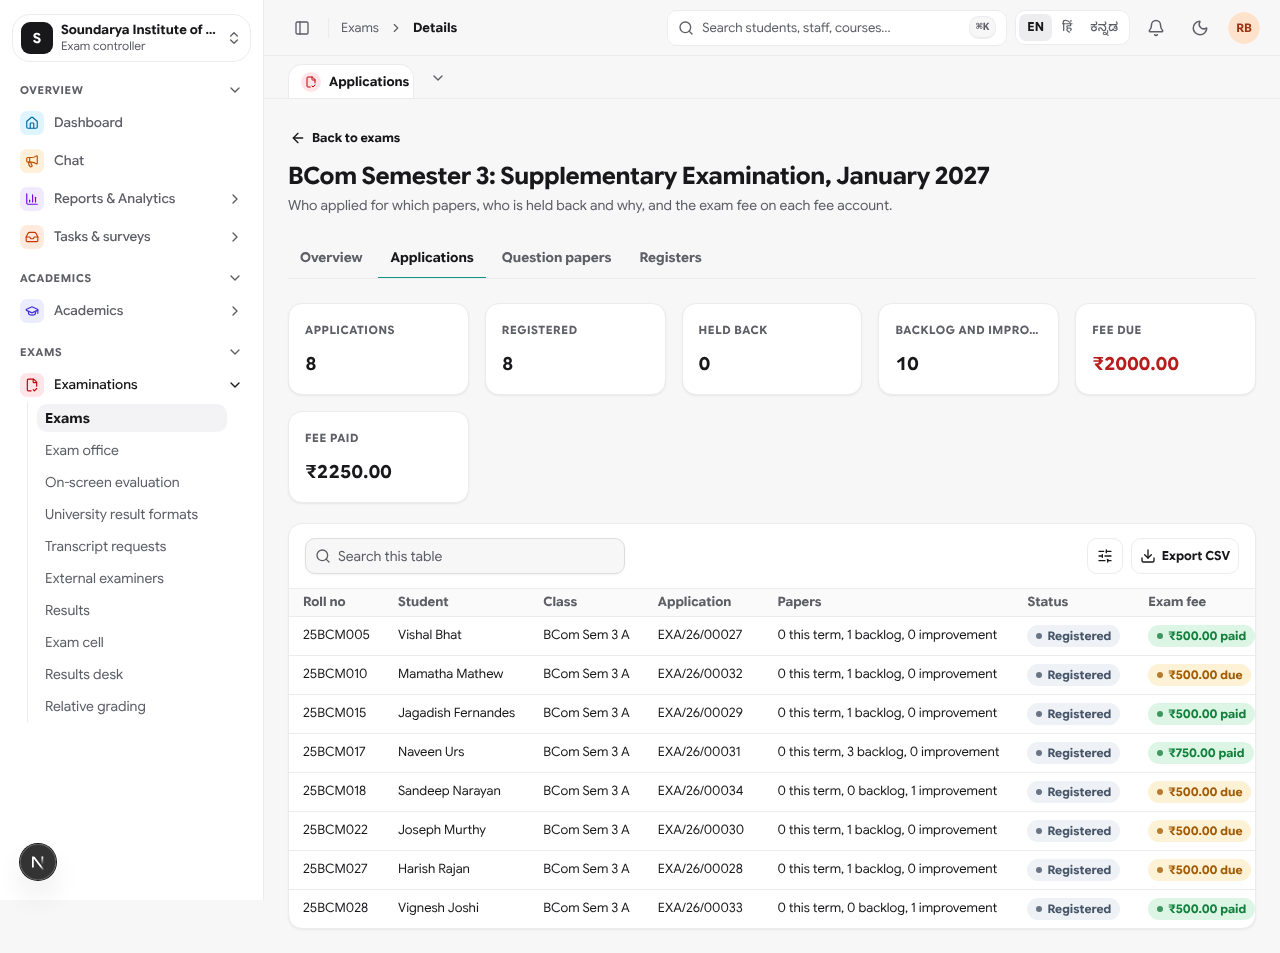
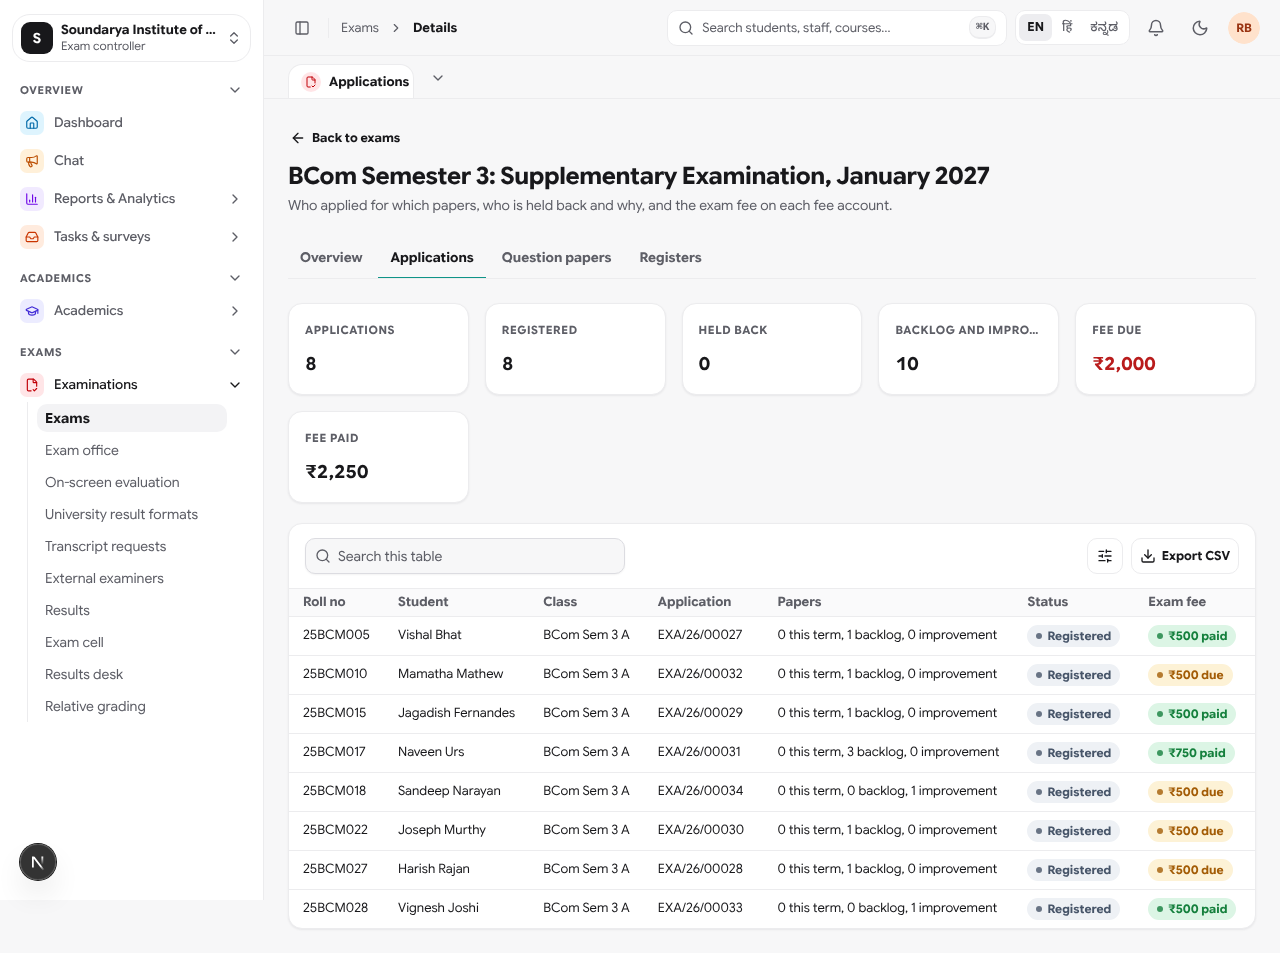
Exams completeness audit (sections 5 and 6), exam screenshots, stable order of appointments
Claude-Session: https://claude.ai/code/session_014Wa1UJYi7F88b2uAnwAZ9Y

Changed region(s): [[0.9375, 0.639, 1.0, 0.9738], [0.875, 0.3652, 0.9375, 0.3956], [0.25, 0.4869, 0.3125, 0.5173]]

diff --git a/apps/erp/src/components/exams/flagship/PaperSettingDesk.tsx b/apps/erp/src/components/exams/flagship/PaperSettingDesk.tsx
@@ -98,6 +98,12 @@ function SubjectCard({ sessionId, subject: s, staff, canManage }: { sessionId: s
           {t('xf.qp.drawInfo', { set: s.draw.setLabel ?? '-', n: s.draw.candidates, at: fmt.dateTime(s.draw.drawnAt) })}
         </p>
       )}
+      {s.appointments.length === 0 && s.sets.length === 0 ? (
+        <p className="m-0 text-sm text-muted-foreground" data-testid={`xf-qp-none-${s.code}`}>
+          {t('xf.qp.noAppointments')}
+        </p>
+      ) : (
+        <>
       <h4 className="m-0 mb-2 text-[13px] font-semibold uppercase tracking-wide text-muted-foreground">{t('xf.qp.people')}</h4>
       <Grid
         empty={t('xf.qp.noAppointments')}
@@ -127,6 +133,8 @@ function SubjectCard({ sessionId, subject: s, staff, canManage }: { sessionId: s
           { label: t('xf.qp.col.release'), cell: (x) => (x.release ? `${fmt.dateTime(x.release.releaseAt)} · ${x.release.status}` : x.status === 'locked' && !x.drawn && s.draw ? t('xf.qp.reserve') : '-') },
         ]}
       />
+        </>
+      )}
       {error && <Alert severity="error" role="alert">{error}</Alert>}
       {dlg === 'appoint' && (
         <FormDialog

diff --git a/apps/erp/src/components/exams/flagship/ApplicationsDesk.tsx b/apps/erp/src/components/exams/flagship/ApplicationsDesk.tsx
@@ -257,7 +257,8 @@ export function ApplicationDialog({ sessionId, studentId, canManage, onClose }: 
                       <CheckboxField label={`${s.code} ${s.name}`} checked={chosen.has(s.subjectId)} disabled={!editable || busy} onChange={(c) => setChosen((x) => { const n = new Set(x); if (c) n.add(s.subjectId); else n.delete(s.subjectId); return n; })} />
                     )}
                     <div className="text-[13px] text-muted-foreground">
-                      {t(`xf.kind.${s.kind}` as MessageKey)} · {t('xf.app.credits', { n: s.credits })}
+                      {t(`xf.kind.${s.kind}` as MessageKey)}
+                      {s.credits ? ` · ${t('xf.app.credits', { n: s.credits })}` : ''}
                       {s.examDate ? ` · ${fmt.date(s.examDate, 'short')} ${s.startsAt ?? ''}` : ''}
                     </div>
                     {s.reasons.length > 0 && <div className="text-[13px] text-red-ink">{s.reasons.join('; ')}</div>}

diff --git a/services/api/src/exam-cell/flagship.records.ts b/services/api/src/exam-cell/flagship.records.ts
@@ -45,6 +45,8 @@ export function qpAppointmentsEntity(): RecordEntity {
       },
       sorts: { due: qpAppointments.dueOn, subject: subjects.code, staff: users.fullName, status: qpAppointments.status, created: qpAppointments.createdAt },
       defaultSort: { id: 'due', dir: 'asc' },
+      // Within a day: by paper, the setter before the moderator.
+      tiebreak: [subjects.code, sql`(${qpAppointments.role} = 'moderator')`],
     },
     fields: {
       dueOn: { label: 'Due on', type: 'date', schema: DATE, create: false, apply: whileOpen('dueOn') },

diff --git a/docs/requirements/EXAMS_COMPLETENESS.md b/docs/requirements/EXAMS_COMPLETENESS.md
@@ -1,0 +1,116 @@
+# Examinations and results: completeness against Linways (checklist sections 5 and 6)
+
+Audit of `docs/research/MODULE_DEPTH_CHECKLIST.md` sections 5 and 6 and the examinations brief, exercised against the
+Soundarya seed (API calls and the ERP pages with Playwright at 1280px and 390px). **Before** is the state of the branch
+when this work started; **after** is the state now. Evidence names the code and the test that proves the item.
+
+Status words: **Have** (built and tested before this work), **Built** (missing or partial before, built now),
+**Deepened** (existed, gaps closed now), **Partial** (what is still missing is said).
+
+Test files referred to below are in `services/api/test/` unless stated. The new end-to-end file is
+`exam-flagship.e2e.spec.ts` (9 tests, fees and analyses worked by hand in its comments).
+
+## Section 5: examinations and evaluation
+
+### Internal (CIA)
+
+| Item | Before | After | Evidence |
+|---|---|---|---|
+| Assessment scheme per course with weights and best-of-N | Have | Have | `exams/schemes.controller.ts`, `grading.ts` (bestOf), `exams.e2e.spec.ts`; affiliation presets (`affiliation/registry`) |
+| Internal mark grid with lock and HOD approval | Partial: submit/verify/lock, reopen only by HOD on their own | Built: teacher asks to unlock with a reason; HOD of the subject's department or controller decides (never the asker); approval reopens; audited; teacher told | `exam-cell/marks-unlock.ts`, `flagship.records.ts` (kit list `marks-unlock-requests`), migration 0188; ERP `/exams/unlock-requests`; Teacher App marks entry menu and `paper_setting_screen.dart`; test "unlocks submitted marks only on the approval…" |
+| Normalisation of internal marks to the university maximum | Have | Have | scheme scaling and affiliation `assessment` rules; `exam-cell/internal-marks.ts` |
+| Attendance-linked internal marks (slabs) | Have | Have | `exam-cell/internal-marks.ts` attendance slabs; `exam-cell.e2e.spec.ts` |
+| Internal mark submission to the university (portal format) | Have | Have | `affiliation/result-sheet.ts`, `/exams/university` |
+| CO-wise questions in internal marks | Have (OBE) | Have | OBE question-wise marks (owned by the OBE module; not changed here) |
+
+### Exam setup and conduct
+
+| Item | Before | After | Evidence |
+|---|---|---|---|
+| Exam types: regular, supplementary, improvement, special, practical, viva | Have | Have | `exam-records.ts` KINDS |
+| Exam registration with eligibility (attendance, dues, prerequisites) and fee | Partial: whole-session eligibility, fee as a separate due marked paid by hand | Built: application per subject (this term, backlog, improvement), each subject checked (attendance after condonation, NE on internal marks, prerequisites), whole-application blockers (overdue fees, backlog limit), application number, the fee as an **invoice on the fee account** (paid at the counter, online or in the apps; settles the exam fee and releases the hall ticket), late fee and super-fine slabs, withdraw with invoice cancelled, controller override | `exam-cell/applications.ts`, `applications.logic.ts`, `exam-fees.ts`, migration 0186; ERP `/exams/[id]/applications`; Student and Parent apps "Exam applications"; tests "checks each subject…", "adds the late fee…" |
+| Backlog / supplementary / improvement registration | Partial: office-entered supplementary registrations | Built: the candidate chooses failed (backlog) and passed (improvement) subjects at the supplementary rate; registrations feed result processing | test "takes backlog and improvement papers…" |
+| Hall tickets bulk issue with blocking and QR | Have | Deepened: an unpaid exam fee and a missing registration hold the ticket; repeaters' tickets list their registered papers | `exams.controller.ts` hall-tickets; tests in `exam-flagship`, `depth-exams.e2e.spec.ts` |
+| Exam timetable and clash detection for backlog students | Have | Have | `/v1/exam-sessions/:id/clashes`, `exam-cell.e2e.spec.ts` |
+| Seating (mixing, alternate), halls, door notices, charts | Have | Have | `exams/seating.ts`, `exam-registration.controller.ts` seating plan PDFs |
+| Invigilation roster by load, swaps, remuneration | Have | Have | `exam-cell.e2e.spec.ts` roster and swap; Teacher App duties |
+| Answer-sheet accounting, absentee and malpractice statement per hall | Have | Deepened: hall **attendance (signature) sheet** and **D-form** PDFs per paper and hall | `exam-cell/registers.ts`; ERP `/exams/[id]/registers`; test "prints the attendance sheet, D-form…" |
+| Malpractice register with committee decision and penalty | Have | Have | `exam-cell.e2e.spec.ts` |
+| Question paper setting: setter, moderator, blueprint (CO/Bloom), multiple sets, scrutiny, secure release | Partial: paper engine with blueprint, scrutiny and timed release; no appointments, no sets per session, no draw | Built: controller appoints setter and moderator per paper (task with due date, remuneration), accept/decline, only the accepted setter makes sets A, B… from the bank, scrutiny only by the appointed moderator, coverage per set (marks by CO, Bloom, unit, difficulty, higher-order share, overlap between sets, blueprint gaps), random draw from locked sets, only the drawn set sealed for release N minutes before the paper, reserves stay sealed | `exam-cell/qp-setting.ts`, `qp.logic.ts`, migration 0187, `question-bank.controller.ts`, `paper-release.controller.ts`; kit list `qp-appointments`; ERP `/exams/[id]/papers`; Teacher App "Paper setting"; test "sets the question paper…" |
+| Question bank with Bloom, difficulty, CO, unit, usage | Have | Have | `question-bank.e2e.spec.ts` |
+| Online exam with pool, randomisation, timer, auto-grade | Have | Have | `assessment-tools.e2e.spec.ts` (proctoring beyond integrity flags is not built) |
+
+### Valuation
+
+| Item | Before | After | Evidence |
+|---|---|---|---|
+| False/dummy numbers kept from the evaluator | Have | Have | `evaluation` anonymised scripts, `evaluation.e2e.spec.ts` |
+| Valuation camp, bundles, examiners, daily count | Have | Have | `exam-cell/valuation.ts`, `exam-cell.e2e.spec.ts` |
+| On-screen evaluation with ink, per-question marks, double and third valuation on deviation | Have | Have | `evaluation.logic.ts` (third valuation), script ink (`assist` seed), `evaluation.e2e.spec.ts` |
+| External examiner portal and remuneration | Have | Have | `/examiner`, `migration-results-examiner.e2e.spec.ts` |
+| Double entry of marks with mismatch report | Have | Have | `exam-cell.e2e.spec.ts` |
+
+### Post-exam
+
+| Item | Before | After | Evidence |
+|---|---|---|---|
+| Moderation from result statistics with approval | Have | Have | `exam-office` moderation, `exam-office.e2e.spec.ts` |
+| Grace marks by rule and on application, locked once applied | Have | Have | `affiliation/maths.ts` applyGrace, `exam-cell.e2e.spec.ts` |
+| Revaluation, retotalling, photocopy with fee and change rule | Partial: fee recorded on the request only | Deepened: the fee is an invoice on the fee account; a request is decided only once paid; turning down an unpaid request cancels the invoice; apps choose the kind | `exams/results.controller.ts`, `exam-fees.ts`; test "puts the revaluation fee on the fee account…"; `exams.e2e.spec.ts` |
+| Supplementary/improvement: best-of-attempts, carry-over internal | Have | Have | `exams.service.ts` latestAttempts, attempt policy |
+| Withheld results with release | Have | Have | `exam-cell.e2e.spec.ts` |
+| Absent vs zero vs malpractice; re-admission; transfer credit; postponement notice | Have | Have | `profileChecks`, `relative-grading-readmission.e2e.spec.ts`, credit transfers, reschedule test |
+| Reports: tabulation register, pass % by course and teacher, toppers, analysis by gender/category, exam-fee statement | Have (on screen and CSV) | Deepened: tabulation register PDF; pass % by class, grade distribution, year-on-year comparison | `exam-cell/reports.ts`; ERP results desk registers; test "analyses results by class, grade and year (worked by hand)" |
+
+## Section 6: results, grade cards and documents
+
+| Item | Before | After | Evidence |
+|---|---|---|---|
+| Grading schemes (absolute, relative, CGPA, boards) | Have | Have | `grading.ts`, `relative-grading.ts`, affiliation registry |
+| SGPA/CGPA with rounding and percentage formula on the card | Have | Have | `affiliation/maths.ts`, marks-card contract |
+| Result processing: dry run, freeze, publish, rollback, approval | Have | Have | `exam-cell.e2e.spec.ts` |
+| Rank list, class/division, repeaters excluded | Have | Have | `exam-cell/reports.ts` ranks, `ranks.ts` |
+| Progress report to parents | Have | Have | `progress-report.pdf` |
+| Consolidated mark list, grade card, transcript | Have | Deepened: a **marks ledger** of every attempt with the attempt that counts | `academic-docs`, `exam-cell/registers.ts` ledger; ERP registers page |
+| Provisional, degree, migration, medium certificates | Have | Have | `academic-docs`, `degrees` |
+| Certificate designer, serials, security QR, signature | Have | Have | document engine |
+| Online verification | Have | Have | `VerificationPublicController` |
+| DigiLocker/NAD push and ABC credit file | Have | Have | `integrations/digilocker.controller.ts`, `integrations.e2e.spec.ts` |
+| Duplicate certificate, name/DOB correction | Have | Have | `documents-desk.ts` |
+| Results to students and parents with withheld shown | Have | Have | `exam-cell.e2e.spec.ts` publish test; apps results with CO view (`outcomes_screen.dart`) |
+| Grade change after publication, versioned | Have | Have | result revisions, `exam-cell.e2e.spec.ts` |
+| Reports: result register, distinctions, gold medals, NIRF, pending certificates | Have | Have | `exam-cell/reports.ts` |
+| University result import (VTU/BU) and reconciliation | Have | Have | `affiliation/result-sheet.ts`, `/exams/university` |
+
+## Apps
+
+| Item | Before | After | Evidence |
+|---|---|---|---|
+| Students/parents: timetable, hall ticket download, results, revaluation | Have | Deepened: exam applications (choose backlog/improvement, live fee, application number, invoice, fee status) in both apps; revaluation kind (revaluation, retotalling, photocopy) | `apps/student/lib/features/exams/exam_applications_screen.dart`, `apps/parent/...`; widget tests `exam_applications_test.dart` (both apps) |
+| Teachers: invigilation duties, marks entry, valuation queue | Have | Deepened: paper setting appointments (accept, decline with reason), unlock requests (ask from marks entry, withdraw) | `apps/teacher/lib/features/work/paper_setting_screen.dart`; `paper_setting_test.dart`, `marks_test.dart` |
+
+## Record kit
+
+New lists use the record kit: `qp-appointments` (filters, sort, export, history, edit while open, cancel action,
+delete only unanswered) and `marks-unlock-requests` (scope: own requests, a head of department's subjects; approve and
+turn-down actions; decided requests stay on record). Applications are a per-session desk list with CSV export (the
+registration row has a composite key, so it is not a kit entity).
+
+## Demo data (Soundarya)
+
+`services/api/src/db/soundarya/exam-flagship.ts`: application numbers and subjects for the BCom semester 5 session; the
+BCom semester 3 supplementary session with six papers, an open window, eight applications (backlog and improvement)
+with invoiced fees, half paid at the counter; paper setting with Corporate Accounting sets A and B locked and one drawn
+and sealed, Cost Accounting set A with the moderator and B in draft, Financial Management appointed and overdue; two
+unlock requests (one waiting, one approved).
+
+## Screens checked
+
+`apps/erp/scripts/exams-qa.mjs` loads 31 exams and results pages at 1280px and 390px: each loads with its heading, no
+error state, no sideways scroll. One pre-existing development-only React warning remains on Exam cell > Duties
+(missing list key inside the records table toolbar); the page works. Screenshots: `docs/demo/screens/exams/01`–`08`.
+
+## Not built
+
+- Remote proctoring (camera) for online exams; integrity flags exist.
+- The applications list is not a record-kit entity (see Record kit).
